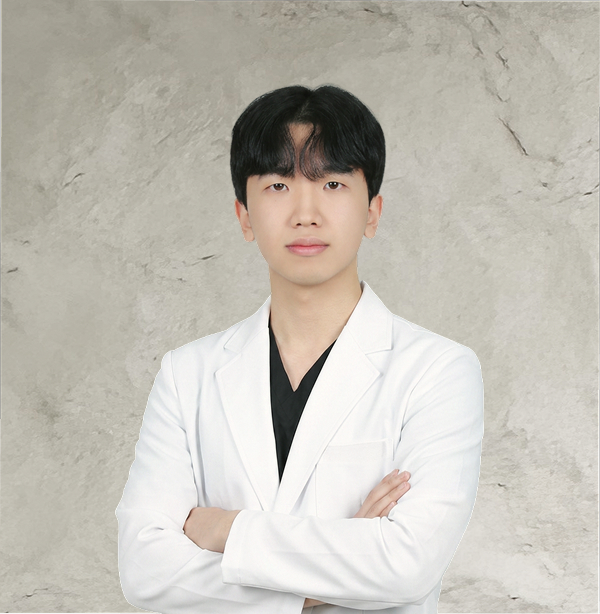
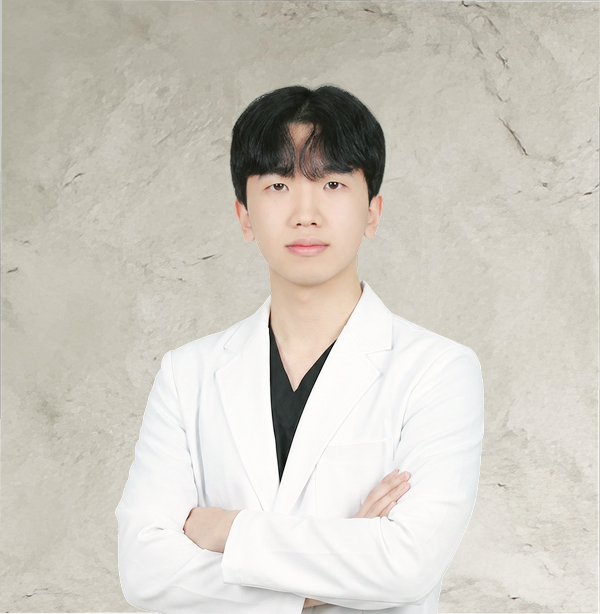
chore: 조진형·김병준 원장 프로필 사진 교체 (v1.26.28)

Changed region(s): [[0.45, 0.2785, 0.6, 0.557], [0.39, 0.2785, 0.45, 0.4023], [0.57, 0.2785, 0.63, 0.3713]]

diff --git a/CHANGELOG.md b/CHANGELOG.md
@@ -4,6 +4,14 @@
 
 ---
 
+## [1.26.28] - 2026-07-22
+
+### Changed
+
+- 의료진 소개 페이지 조진형·김병준 원장 프로필 사진 교체.
+
+---
+
 ## [1.26.27] - 2026-07-22
 
 ### Fixed
